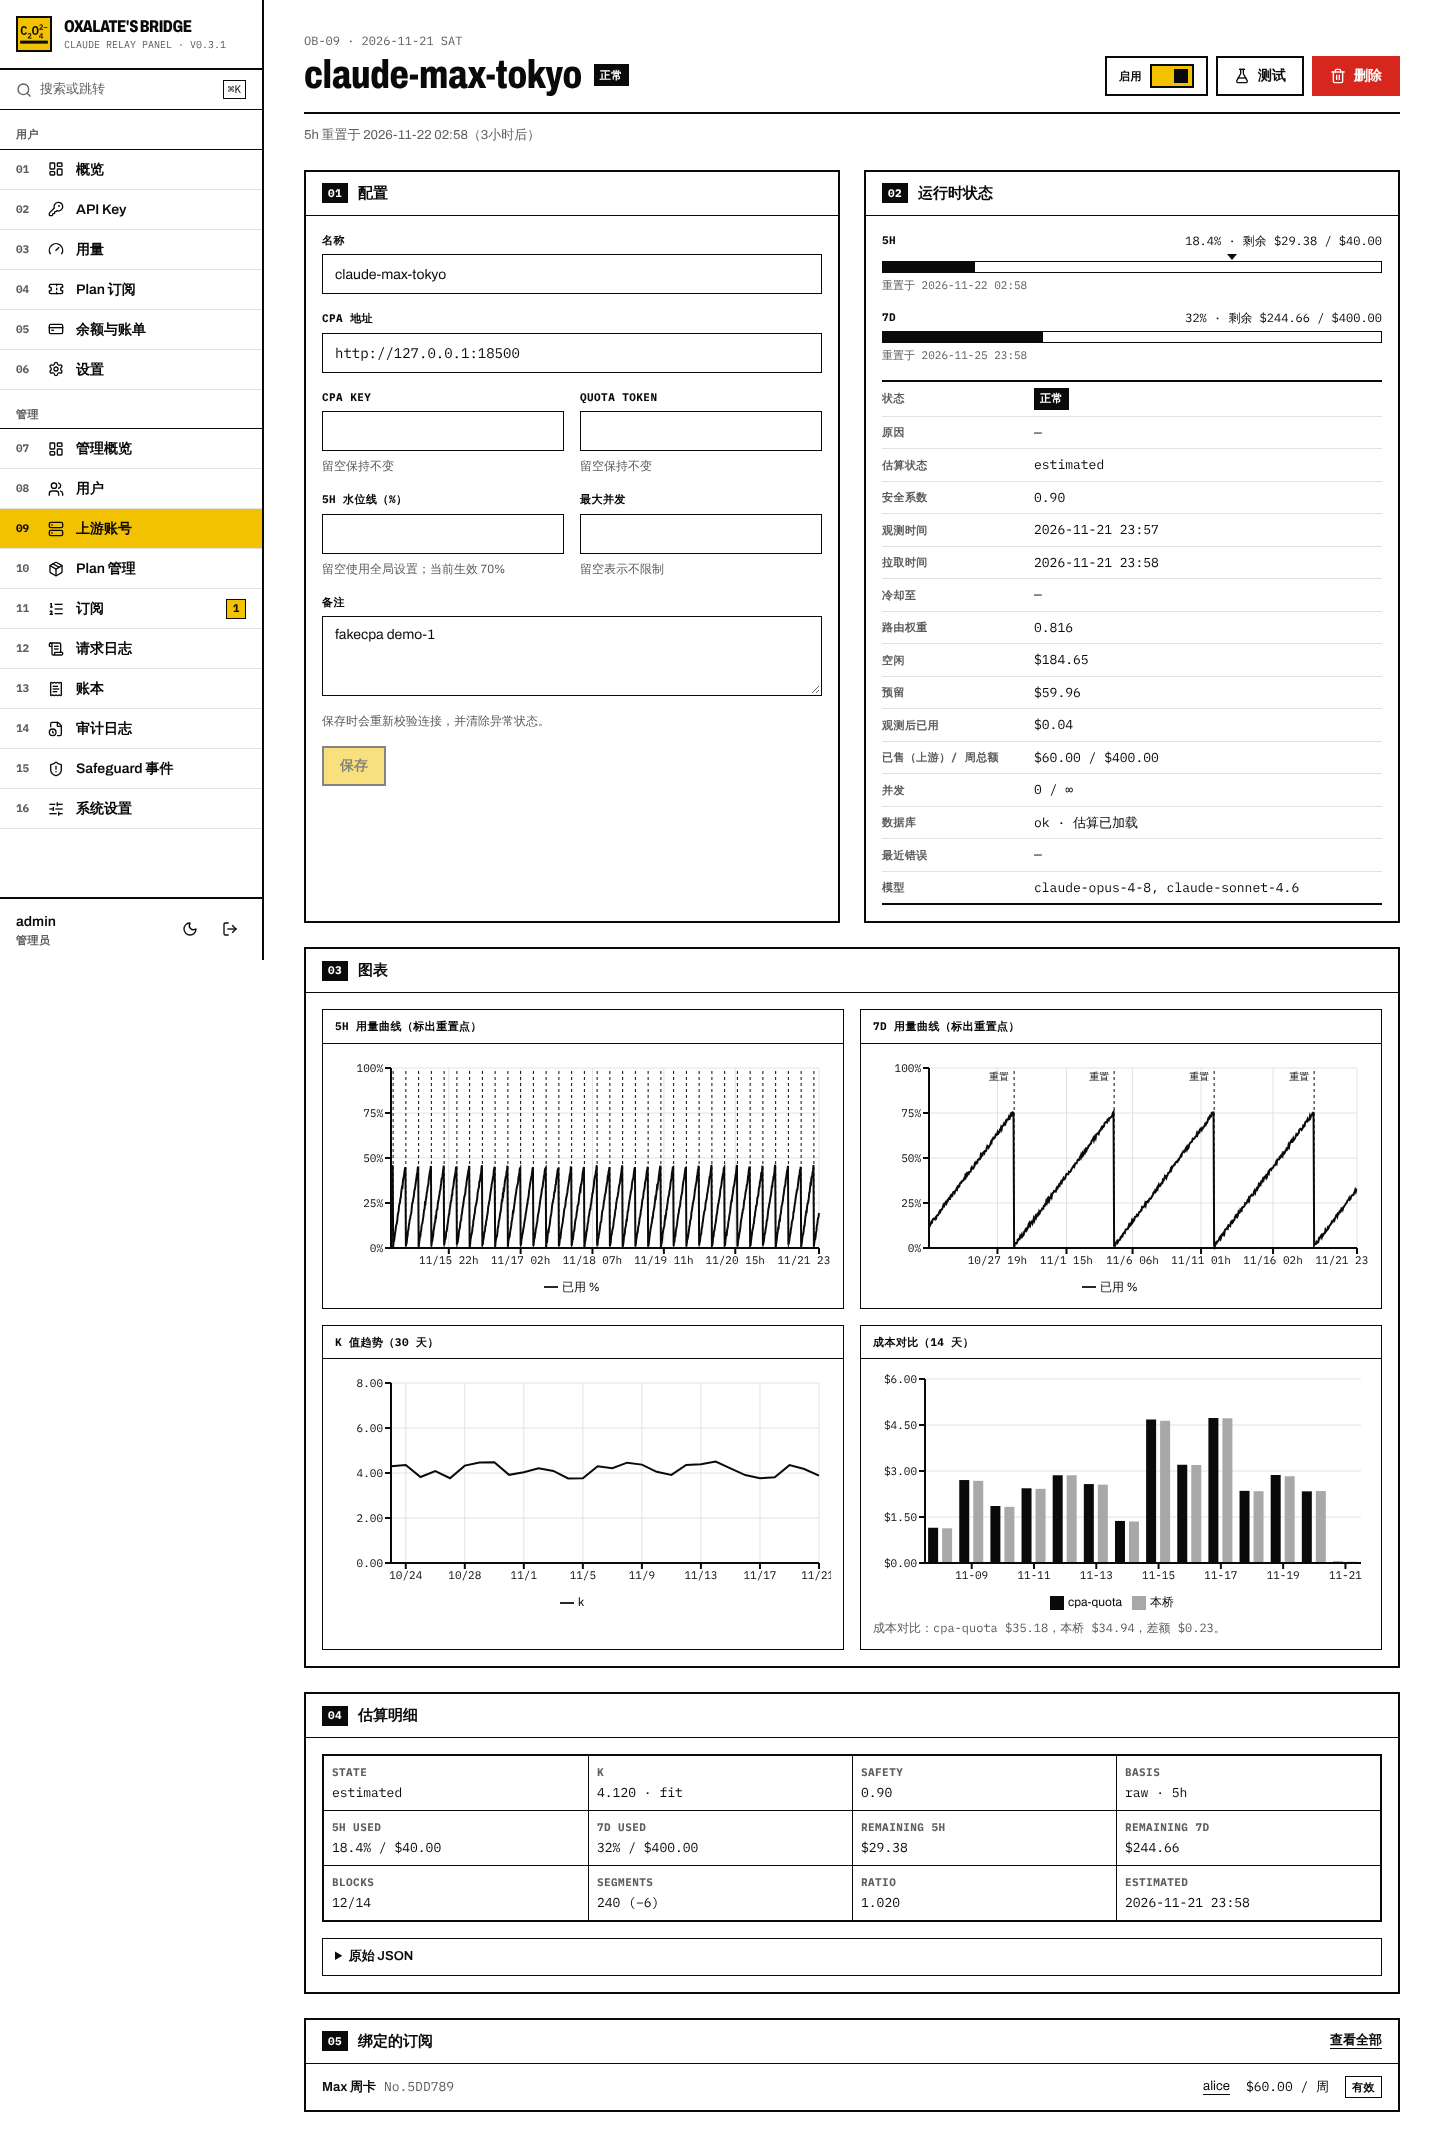
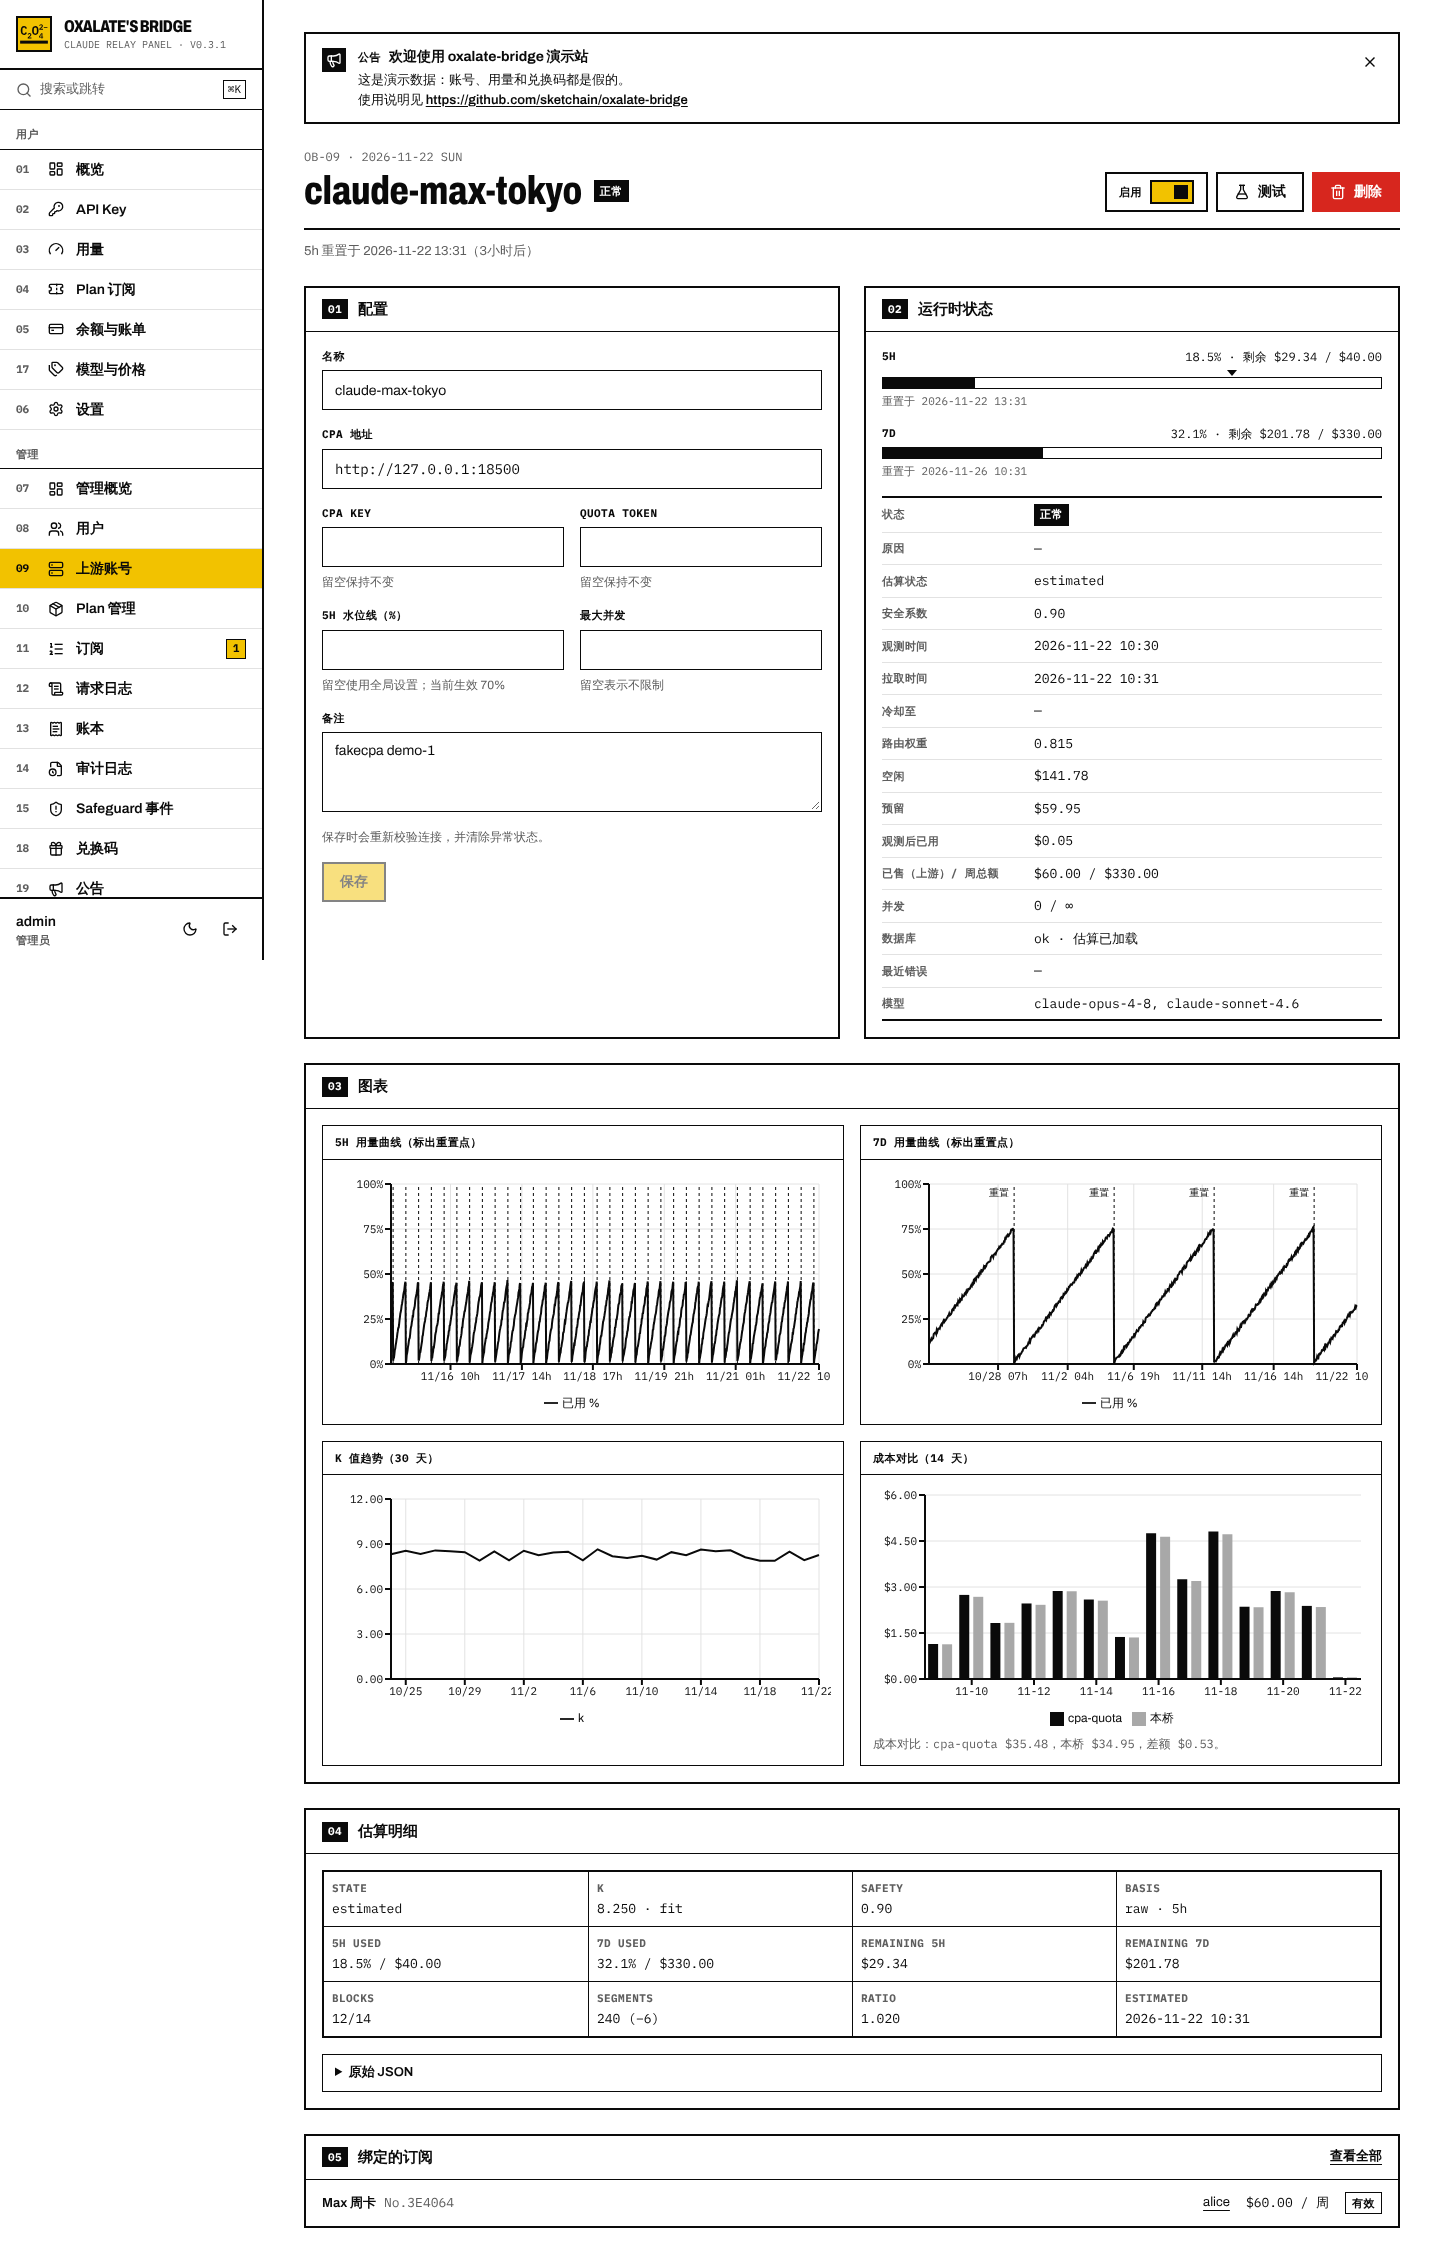
Round 5: screenshots, README status line section, Changelog, v0.4.0
Claude-Session: https://claude.ai/code/session_01BiSZwWUbdQxUHt7fjTV45s

diff --git a/web/e2e/screenshots.spec.ts b/web/e2e/screenshots.spec.ts
@@ -1,18 +1,53 @@
-import { test, type Page } from "@playwright/test";
+import { test, type Cookie, type Page } from "@playwright/test";
 import { ADMIN, USER, login } from "./helpers";
 
 // Page screenshots for docs/screenshots: light, dark and phone for each page.
 const OUT = process.env.SCREENSHOT_DIR ?? "../docs/screenshots";
-const pages: { who: typeof USER | null; name: string; path: string }[] = [
+type Prepare = (page: Page) => Promise<void>;
+
+// One login per user for the whole run: the login endpoint is rate limited
+// per client IP (30 per 15 minutes) and there are more pages than that.
+const sessions = new Map<string, Cookie[]>();
+async function signIn(page: Page, who: typeof USER) {
+  const saved = sessions.get(who.username);
+  if (saved) {
+    await page.context().addCookies(saved);
+    return;
+  }
+  await login(page, who, "/");
+  sessions.set(who.username, await page.context().cookies());
+}
+
+/** Fills the query page with alice's "Claude Code" key (owner query enabled) and runs the query. */
+const queryWithKey: Prepare = async (page) => {
+  const keys = await (await page.request.get("/api/v1/keys")).json();
+  const k = keys.items.find((x: { name: string }) => x.name === "Claude Code") ?? keys.items[0];
+  const secret = (await (await page.request.get(`/api/v1/keys/${k.id}/secret`)).json()).key;
+  await page.goto("/query");
+  await page.getByLabel("API Key").fill(secret);
+  await page.getByRole("button", { name: "查询", exact: true }).click();
+  await page.getByTestId("query-result").waitFor();
+};
+
+const openKeyDrawer: Prepare = async (page) => {
+  await page.getByRole("button", { name: "查看 Claude Code 的详情" }).first().click();
+  await page.getByTestId("key-drawer").getByRole("heading", { name: "限额与用量" }).waitFor();
+};
+
+const pages: { who: typeof USER | null; name: string; path: string; prepare?: Prepare; viewportOnly?: boolean }[] = [
   { who: null, name: "login", path: "/login" },
   { who: USER, name: "user-overview", path: "/" },
   { who: USER, name: "user-keys", path: "/keys" },
   { who: USER, name: "user-usage", path: "/usage" },
   { who: USER, name: "user-plans", path: "/plans" },
+  { who: USER, name: "user-key-drawer", path: "/keys", prepare: openKeyDrawer, viewportOnly: true },
+  { who: USER, name: "user-pricing", path: "/pricing" },
+  { who: USER, name: "query", path: "/query", prepare: queryWithKey },
   { who: ADMIN, name: "admin-overview", path: "/admin" },
   { who: ADMIN, name: "admin-accounts", path: "/admin/accounts" },
   { who: ADMIN, name: "admin-account-detail", path: "/admin/accounts/:first" },
   { who: ADMIN, name: "admin-subscriptions", path: "/admin/subscriptions" },
+  { who: ADMIN, name: "admin-redeem", path: "/admin/redeem" },
 ];
 
 async function resolve(page: Page, path: string) {
@@ -32,16 +67,17 @@ for (const v of variants) {
     test.use({ colorScheme: v.colorScheme, viewport: v.viewport, isMobile: v.mobile, hasTouch: v.mobile, deviceScaleFactor: v.mobile ? 2 : 1 });
     for (const p of pages) {
       test(`${p.name} (${v.suffix})`, async ({ page }) => {
-        if (p.who) await login(page, p.who, "/");
+        if (p.who) await signIn(page, p.who);
         await page.goto(await resolve(page, p.path));
         await page.waitForLoadState("networkidle");
+        if (p.prepare) await p.prepare(page);
         await page.waitForTimeout(800);
         if (v.mobile) {
           // A full-page capture draws position:fixed elements where the first
           // viewport ends; pin the tab bar to the end of the document instead.
           await page.addStyleTag({ content: '#root > div { position: relative; } [data-testid="bottom-tabs"] { position: absolute !important; }' });
         }
-        await page.screenshot({ path: `${OUT}/${p.name}-${v.suffix}.png`, fullPage: true });
+        await page.screenshot({ path: `${OUT}/${p.name}-${v.suffix}.png`, fullPage: !p.viewportOnly });
       });
     }
   });

diff --git a/web/src/routes/_app/keys.tsx b/web/src/routes/_app/keys.tsx
@@ -179,7 +179,7 @@ function KeysPage() {
           renderCard={(k) => (
             <div className="border border-ink p-3">
               <div className="flex items-center justify-between gap-2">
-                <button type="button" className="truncate text-left font-semibold underline underline-offset-4" onClick={() => setDetail(k.id)}>
+                <button type="button" className="truncate text-left font-semibold underline underline-offset-4" onClick={() => setDetail(k.id)} aria-label={t("keys.openDetail", { name: k.name || k.prefix })}>
                   {k.name || t("keys.unnamed")}
                 </button>
                 <Switch checked={k.enabled} aria-label={t("keys.toggle", { name: k.name || k.prefix })} onCheckedChange={(v) => toggle.mutate({ id: k.id, enabled: v })} />

diff --git a/web/e2e/smoke.spec.ts b/web/e2e/smoke.spec.ts
@@ -160,7 +160,7 @@ test("create a key with limits, open its drawer and see it on the query page", a
   await expect(result).toContainText("$0.00 / $2.00");
   await expect(result.getByRole("region", { name: "账户" })).toContainText("可用余额");
   // The page never shows the full key outside the input, and never stores it.
-  expect(await page.locator("main, body").first().evaluate((el, k) => el.innerText.includes(k), key)).toBe(false);
+  expect(await page.locator("body").innerText()).not.toContain(key);
   expect(await page.evaluate(() => JSON.stringify(localStorage) + JSON.stringify(sessionStorage))).not.toContain("sk-");
 });
 

diff --git a/web/src/lib/version.ts b/web/src/lib/version.ts
@@ -1,2 +1,2 @@
 /** Panel version; kept equal to the backend version (backend/internal/version). */
-export const APP_VERSION = "0.3.1";
+export const APP_VERSION = "0.4.0";

diff --git a/backend/internal/version/version.go b/backend/internal/version/version.go
@@ -3,4 +3,4 @@
 package version
 
 // Version is the bridge release version.
-const Version = "0.3.1"
+const Version = "0.4.0"

diff --git a/Changelog.md b/Changelog.md
@@ -1,5 +1,59 @@
 # Changelog
 
+## v0.4.0
+
+### 升级须知
+
+- 新迁移 `00003_key_limits_redeem`：`api_keys` 增加 `quota_limit_micro`、`quota_scope`（all / balance，默认 all）、`limit_5h_micro` / `limit_1d_micro` / `limit_7d_micro`、`expires_at`、`model_allowlist`、`ip_allowlist`、`allow_owner_query`，以及计量用的 `used_all_micro`、`used_balance_micro`、`usage_version`、`usage_reset_at`（老 key 的已用量从 `usage_hourly` 回填）。新表 `redeem_batches`、`redeem_codes`、`announcements`、`announcement_dismissals`；`ledger_entries.type` 增加 `redeem`；新增索引 `usage_hourly (key_id, hour)`、`request_logs (key_id, created_at DESC, request_id DESC)`。
+- `ApiKey` 新增 `status`（active / disabled / expired）、上面的限制字段、`used_all_micro`、`used_balance_micro`、`usage_reset_at`；`ApiKeyCreate` / `ApiKeyUpdate` 可设置限制字段（空 = 不限，`null` 清除）。
+- `AccountRuntime` 新增 `assignable`，`OverviewAccounts`（`/admin/overview` 与 `/admin/accounts` 的 `summary`）新增 `assignable` 计数：「可分配」改由后端统一判定。
+- 账号的 `k` 优先取 `/quota` 的 `accounts[0].k`，没有时才取 cpa-quota 估算表的 `k`。`cpa.Account` 读取新的 `k` 字段，fakecpa 也会返回它。
+- Redis 结算与落库脚本多了 key 计量的参数，新旧版本副本不要混跑（滚动升级时先停旧副本再起新副本）。
+
+### 新增错误码
+
+- 转发接口（Anthropic 原生错误格式，`error.code` 同时写入请求日志的 `error_type`，key 级别拒绝不会切到下一档）：`key_expired`（403，permission_error）、`ip_not_allowed`（403，permission_error）、`model_not_allowed`（403，permission_error）、`key_quota_exhausted`（429，rate_limit_error）、`key_window_exhausted`（429，rate_limit_error，附 `window` 与 `recovers_at`）。
+- 面板接口：`redeem_code_invalid`、`redeem_code_used`、`redeem_code_void`、`redeem_code_expired`（400）、`redeem_locked`（429）。所有新错误码都有中英文文案。
+
+### 新增接口
+
+- `GET /v1/bridge/status`（转发域名）：鉴权同 `/v1/messages`，不计费、不写日志，每个 key 60 次/分钟。
+- `GET /api/v1/public/key-usage`：免登录凭 key 查询（key 只认请求头），按 IP、按 key 各 30 次/分钟。
+- `GET /api/v1/keys/{id}/limits`、`POST /api/v1/keys/{id}/reset-usage`、`GET /api/v1/keys/{id}/usage/daily`、`GET /api/v1/usage/keys`。
+- `POST /api/v1/balance/redeem`、`GET /api/v1/announcements`、`POST /api/v1/announcements/{id}/dismiss`、`GET /api/v1/pricing`。
+- 管理端：`PATCH /admin/keys/{id}`、`GET /admin/keys/{id}/limits`、`POST /admin/keys/{id}/reset-usage`、`GET|POST /admin/redeem-batches`、`GET /admin/redeem-batches/{id}/export`（CSV）、`GET /admin/redeem-codes`、`POST /admin/redeem-codes/{id}/void`、`GET|POST /admin/announcements`、`PATCH|DELETE /admin/announcements/{id}`。
+
+### API key 限制
+
+- 总额度、额度口径（全部计入 / 仅余额）、5h / 1d / 7d 滑动窗口、过期时间、模型白名单（`/v1/models` 同步过滤）、IP 白名单（CIDR，按信任代理解析的真实 IP）、允许凭 key 查询账户；用户和管理员都能设置，管理员修改写审计日志。
+- 计量沿用钱包的「PG 基准 + 版本号 + pending」：Redis 维护两套累计用量（all / balance）和按分钟的窗口桶，结算脚本原子累加，消费者落库时锁住 key 行并只计入重置之后开始的请求；Redis 丢失时基准从 PG、窗口从最近 7 天的 `request_logs` 重建。
+- 预扣同时受钱包、key 剩余额度和各窗口剩余额度约束（一个 Lua 脚本内完成），剩余 > 0 才放行，允许最后一笔超出。
+- 重置已用额度：总额度从 0 重新计起，窗口不受影响。
+
+### 前端
+
+- Key 新建 / 编辑对话框分组（基本信息、档位与订阅、并发与频率、额度限制、访问控制）；额度口径用方形拨动开关（2px 墨框、无圆角、选中格墨底反色，radiogroup + 方向键 / Home / End 操作）。
+- Key 列表新增状态与总额度列；点开 key 显示详情抽屉：各项限制、实时用量进度（窗口用完时显示预计恢复时间）、重置按钮、7 / 30 / 90 天每日用量图。
+- 新的公开页面 `/query`：密码框输入 key（可切换显示），key 只在内存里；手机端可用；登录页有入口。
+- 用量页新增「按 Key 对比」视图（前 10 个 key 的每日扣费折线 + 各 key 合计表）。
+- 「余额与账单」页可以兑换兑换码；管理端新增「兑换码」页（生成批次、按批次与状态筛选、作废、导出 CSV）和「公告」页；面板顶部显示生效中的公告横幅（警告整条填黄，普通用墨框，可关闭，关闭状态记在服务端；正文只渲染换行与链接）。
+- 新页面「模型与价格」（用户侧与管理侧导航都有）：搜索、三档切换，桌面表格、手机卡片，未定价模型单独标注。
+- 管理端用户详情的 key 列表可以编辑限额、重置已用额度。
+- 概览「近 14 天花费」一行改为顶部对齐，图表固定 280px，不再被 Plan 卡片拉高。
+- 账号页汇总、筛选和管理概览的「可分配」使用后端的 `assignable`。
+
+### 修正
+
+- **k 值异常的根因是演示种子配错了**：`fakecpa.DemoProfiles` 里手写了 `K: 4.12 / 1.03 / 0.98 / 0.41`，注释把 k 误当成「5h 窗口每个百分点多少美元」，`bridge seed-demo` 把它原样写进演示 cpa-quota 的 `estimates.k`，桥读取 `estimates.k` 的路径本身没错。现在 k 一律按「周总额 ÷ 5h 总额」由 profile 的总额算出（演示四个账号为 8.25 / 7.6 / 9.2 / 6），fakecpa 的 `/quota` 也返回 `accounts[0].k`，种子与面板都以它为准；测试保证账号显示的 k 等于 `/quota` 的 `accounts[0].k`（没有时取估算表的 `k`），并且演示账号的 k 在 5–10 之间。
+- 截图脚本每个用户只登录一次，不再触发登录限频（每 IP 15 分钟 30 次）。
+
+### 测试与演示数据
+
+- 后端：key 额度口径切换、滑动窗口边界与恢复时间、重置已用、各拒绝错误码与日志、预扣受 key 额度和窗口约束、Redis 丢失后重建；查询接口（开关为 false 时没有 `account`、限频、URL 里的 key 不被接受）；状态栏接口不计费不写日志；兑换码并发只成功一次、过期 / 作废不能兑换、连续失败锁定；公告生效时间段与按用户关闭；价格与「可分配」计数。
+- Playwright 冒烟：创建带限额的 key 并在抽屉和查询页看到它、兑换码兑换后余额增加、公告横幅显示后能关闭、价格页能打开、14 天图表固定高度；手机端无横向溢出的页面加上了价格页、按 Key 对比和查询页。
+- 截图新增查询页、key 详情抽屉、兑换码管理页、价格页（浅色、深色、手机），其余受影响的截图全部重新生成（概览带公告横幅）。
+- `seed-demo` 新增带限额的 key（含开启凭 key 查询的「Claude Code」）、一批 20 个兑换码（一个已兑换、一个已作废）和一条公告。
+
 ## v0.3.1
 
 ### 升级须知
